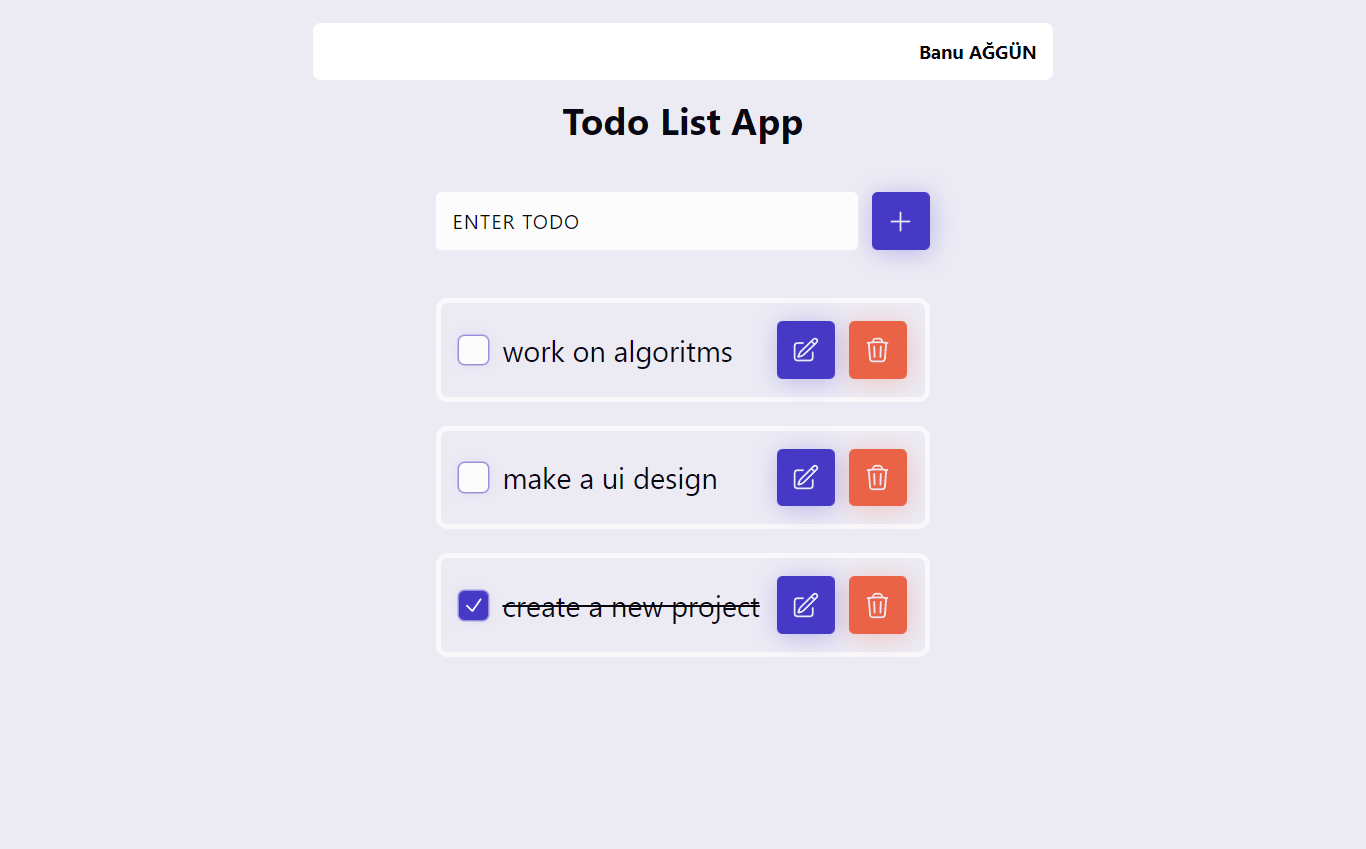
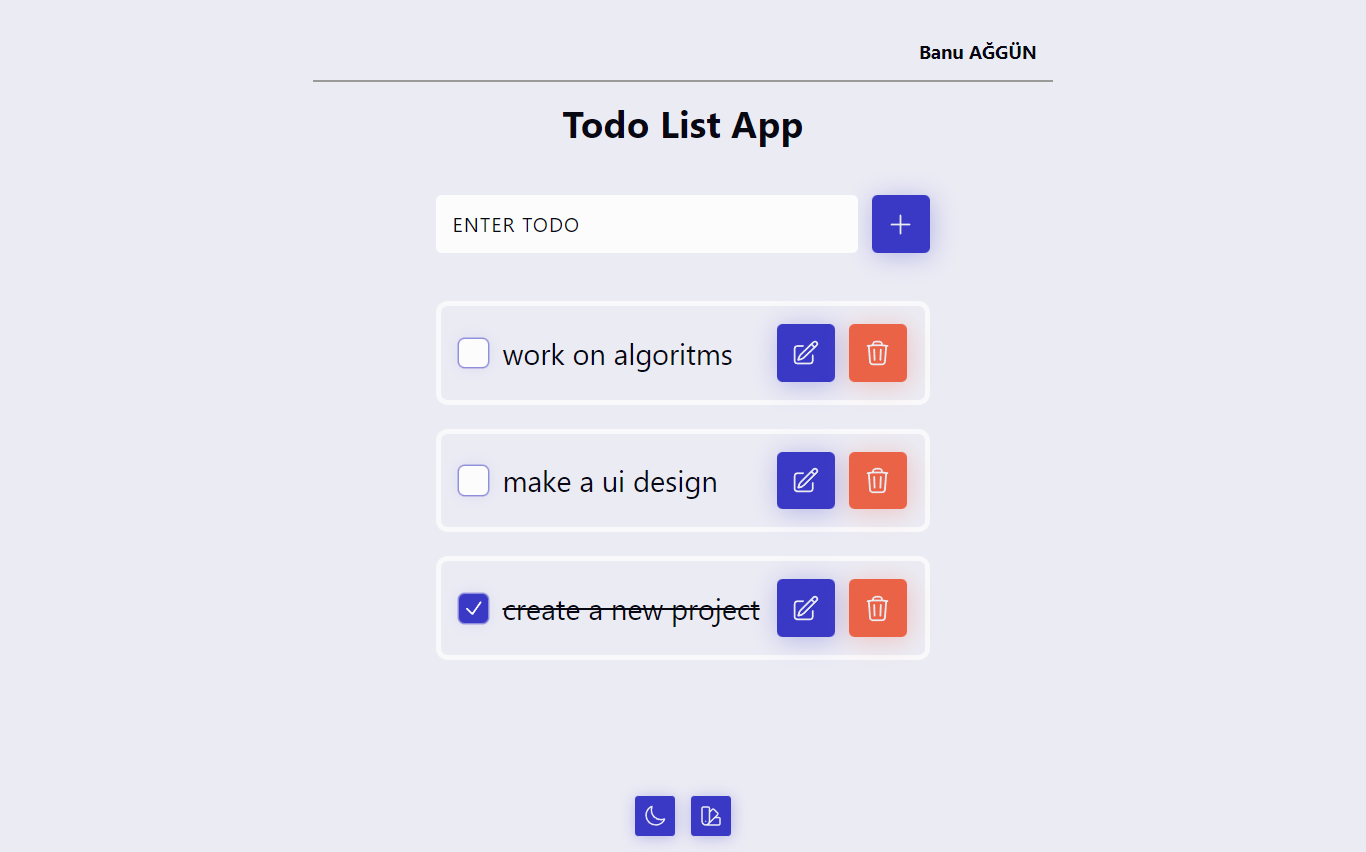
Added dark mode to LocalStorage & also color pickr

diff --git a/src/components/ThemeSwitcher.jsx b/src/components/ThemeSwitcher.jsx
@@ -1,0 +1,45 @@
+import { useState, useEffect } from 'react';
+
+import { XMarkIcon, SunIcon, MoonIcon, SwatchIcon } from '@heroicons/react/24/outline';
+
+import styles from './ThemeSwitcher.module.css';
+
+const ThemeSwitcher = () => {
+  const [hue, setHue] = useState('240')
+  const [theme, setTheme] = useState(localStorage.getItem('theme') || 'light')
+  const [isColorPicking, setIsColorPicking] = useState(false)
+
+  useEffect(() => {
+   document.documentElement.setAttribute('color-scheme', theme);
+   localStorage.setItem("theme", theme)
+  }, [theme]);
+
+  useEffect(() => {
+    document.documentElement.style.setProperty('--_hue', hue);
+  }, [hue]);
+
+  return(
+    <aside className={styles.wrapper} style={{backgroundColor: isColorPicking ? 'hsl(var(--muted) / .6)' : 'transparent'}}>
+      {isColorPicking ? (
+        <>
+        <button className={`btn ${styles.close}`} aria-label="Close color picking mode" onClick={() => setIsColorPicking(false)}>
+          <XMarkIcon/>
+        </button>
+        <input type='range' className={styles.picker} min="0" max="360" aria-label='Change color theme picker' value={hue} onInput={(e) => setHue(e.target.value)} />
+        </>
+      ) : (
+        <div className={styles.btns}>
+          <button className='btn' aria-label={`Change theme to ${theme === "light" ? "dark" : "light"} mode`} role="switch"  onClick={() => setTheme(theme === 'light' ? 'dark' : 'light')}>
+            {theme === 'dark' ? <SunIcon/> : <MoonIcon/>}
+          </button>
+          <button className='btn' aria-label='Enable color picking mode' onClick={() => setIsColorPicking(true)}>
+            <SwatchIcon />
+          </button>
+        </div>
+      )}
+    </aside>
+  )
+}
+
+
+export default ThemeSwitcher

diff --git a/src/components/ThemeSwitcher.module.css b/src/components/ThemeSwitcher.module.css
@@ -1,0 +1,76 @@
+.wrapper {
+  position: fixed;
+  bottom: 0;
+  left: 0;
+  --wrapperSize: clamp(4em, 3vmax, 7em);
+  padding: 1em 2em;
+  width: 100%;
+  display: grid;
+  --_size: 1.5rem;
+  place-items: center;
+  background-color:#f2f2f2;
+  opacity:1;
+}
+
+.btns {
+  display: flex;
+  gap: 1em;
+}
+
+.picker:focus {
+  outline: none;
+}
+
+.picker {
+  appearance: none;
+  -webkit-appearance: none;
+  outline: none;
+  height: calc(var(--wrapperSize) * 0.2);
+  width: 100%;
+  border: 0.2em solid hsl(var(--muted));
+  box-shadow: 0 0 0.8em hsl(var(--accent) / 0.4);
+  border-radius: 100vmax;
+  background: linear-gradient(to right,
+      hsl(0, 50%, 50%),
+      hsl(25, 50%, 50%),
+      hsl(50, 50%, 50%),
+      hsl(75, 50%, 50%),
+      hsl(100, 50%, 50%),
+      hsl(125, 50%, 50%),
+      hsl(150, 50%, 50%),
+      hsl(175, 50%, 50%),
+      hsl(200, 50%, 50%),
+      hsl(225, 50%, 50%),
+      hsl(250, 50%, 50%),
+      hsl(275, 50%, 50%),
+      hsl(300, 50%, 50%),
+      hsl(325, 50%, 50%),
+      hsl(350, 50%, 50%));
+}
+
+.picker::-webkit-slider-thumb {
+  -webkit-appearance: none;
+  appearance: none;
+  height: calc(var(--wrapperSize) * 0.35);
+  width: calc(var(--wrapperSize) * 0.35);
+  border: none;
+  box-shadow:
+    0 0 0 .25em hsl(var(--muted)),
+    0 0 0 -.4em hsl(var(--accent) / 0.8);
+  border-radius: 100vmax;
+  background-color: hsl(var(--accent));
+  cursor: ew-resize;
+}
+
+.picker:focus::-webkit-slider-thumb {
+  box-shadow:
+    0 0 0 .25em hsl(var(--muted)),
+    0 0 0 .45em hsl(var(--accent) / 0.8);
+}
+
+.close {
+  position: absolute;
+  top: -2em;
+  left: 50%;
+  transform: translate(-50%, -50%);
+}

diff --git a/src/pages/Lists.jsx b/src/pages/Lists.jsx
@@ -5,6 +5,7 @@ import {putApi} from "../api/PutApi";
 import CustomForm from '../components/CustomForm'
 import TaskList from '../components/TaskList'
 import EditForm from '../components/EditForm'
+import ThemeSwitcher from '../components/ThemeSwitcher'
 
 function Lists() {
   const [todos, setTodos] = useState([]);
@@ -77,6 +78,8 @@ function Lists() {
       {todos && (
         <TaskList todos={todos} toggleTodo={toggleTodo} enterEditMode={enterEditMode} />
       )}
+
+      <ThemeSwitcher />
     </div>
   )
 }

diff --git a/src/components/User.jsx b/src/components/User.jsx
@@ -2,7 +2,7 @@ import React from 'react'
 
 function User() {
   return (
-    <div style={{marginTop:'-2rem', display:'flex', justifyContent:'flex-end', backgroundColor:'white', padding:'1rem', borderRadius:'8px'}}>
+    <div style={{marginTop:'-2rem', display:'flex', justifyContent:'flex-end', borderBottom:'3px groove', padding:'1rem'}}>
        
        <h3>{localStorage.getItem("Name")}</h3> 
    

diff --git a/README.md b/README.md
@@ -10,6 +10,9 @@
 
   ✅ When adding a new todo, the input field should not be empty, it should contain at least 3 characters
 
+  ✅ Storing the user's dark/light mode preference in local storage
+
+  ✅ Additionally I added Color Picker. In this way, the user can change the theme.
 
 
 ## Technologies & Libraries
@@ -26,3 +29,7 @@
 ![Login](./src/screenshots/login.png)
 
 ![TodoList](./src/screenshots/todolist.png)
+
+![dakmode](./src/screenshots//darkmode.png)
+
+![colorpicker](./src/screenshots/colorpicker.png)
